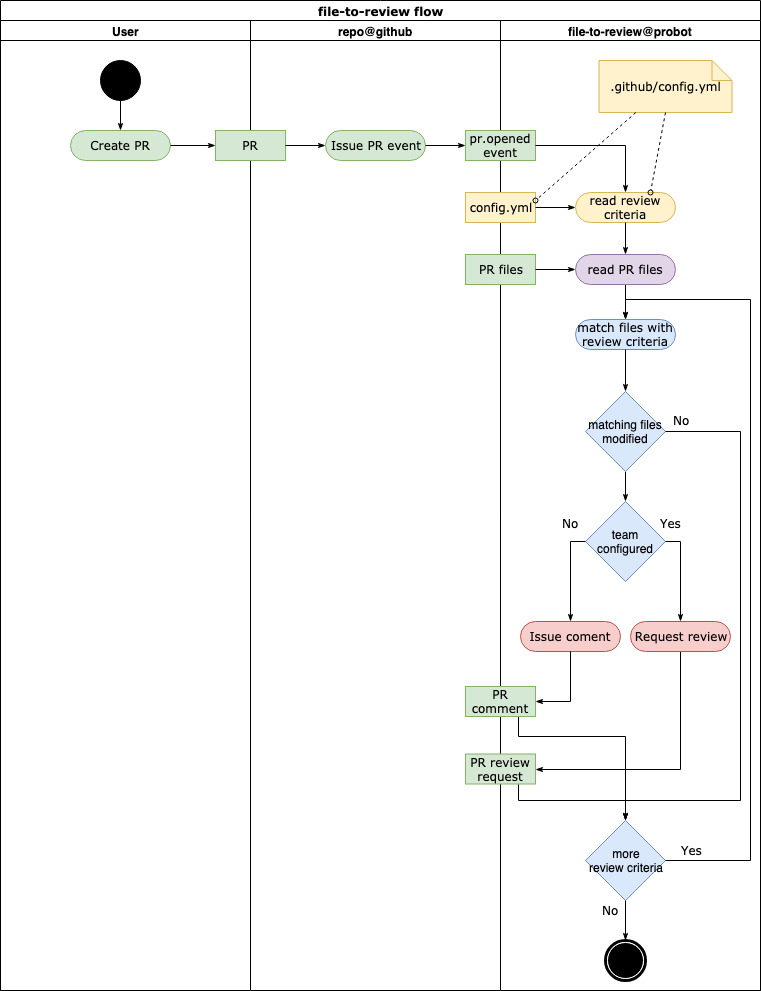
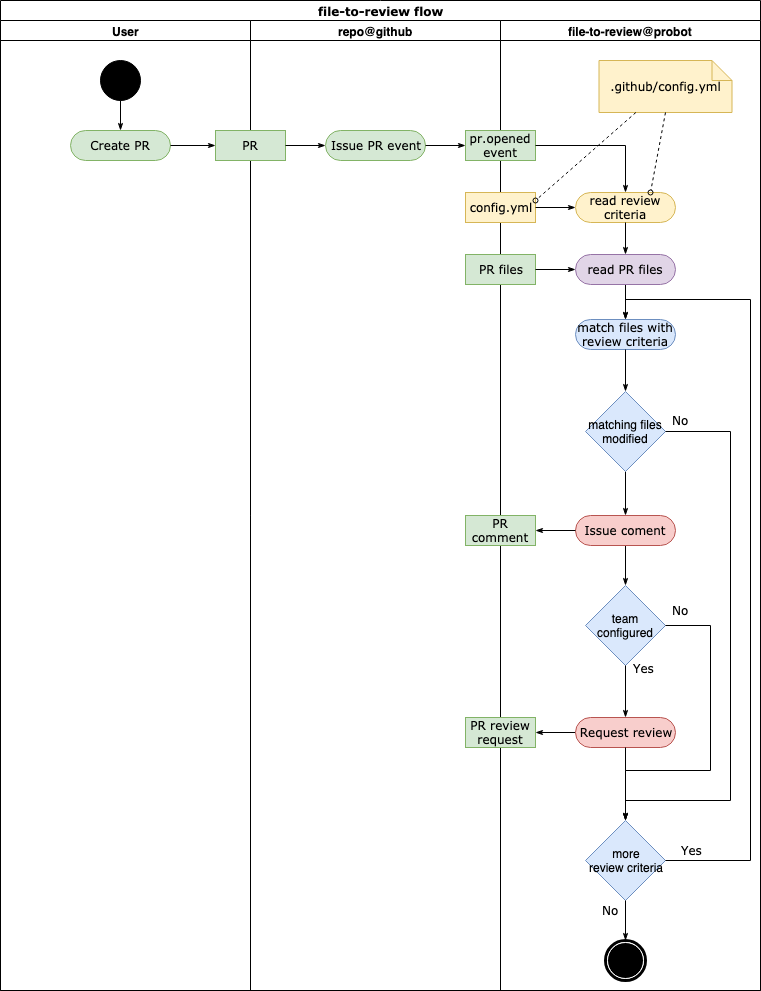
Update README.md and assets to reflect flow change
Indicate that `comment-on-pull-request` is performed always and
`request-review-to-team` only when team(s) is/are configured.

Changed region(s): [[0.6045, 0.4844, 0.9671, 0.8174]]

diff --git a/README.md b/README.md
@@ -1,8 +1,9 @@
 # ![cipy rules](./assets/cipy_rules_small.png) files-to-review app
 
-> A GitHub App built with [Probot](https://github.com/probot/probot) that either comments on pull request
-that certain files require review from predefined team or requests review from that team when certain file(s)
-(e.g. LICENSE, etc.) is submitted with pull request [pr]. See the following diagram for details:
+> A GitHub App built with [Probot](https://github.com/probot/probot) that comments on pull request
+that certain files require review from predefined team and requests review from that team when certain file(s)
+(e.g. LICENSE, etc.) is submitted with pull request [pr]. The latter action is performed only when team(s) is
+configured. See the following diagram for details:
 
 ![legal-to-review flow](./assets/legal-to-review-flow.png?raw=true)
 
@@ -22,7 +23,7 @@ as a result comment (similar to the one below) gets added to the pull request.
 
 ### Configuration description
 
-One can configure several review criteria in `./github/config.yml` accroding to the following structure:
+One can configure several review criterias in `./github/config.yml` according to the following structure:
 ```yaml
 reviewCriteria:
   - configName:
@@ -33,17 +34,13 @@ reviewCriteria:
 
   ...
 ```
-Note that `teams` parameter is optional and when it is provided given `review criteria` results in app working
-in `request-review-to-team` mode that manifests itself in adding team(s) to reviewers list similarly to
-the picture below:
+Note that `teams` parameter is optional and when it is provided given `review criteria` results in app issuing
+2 actions `comment-on-pull-request` and `request-review-to-team` that manifests itself commenting which files
+need to be reviewed and adding team(s) to reviewers list.
 
-![review-request to legal](./assets/review-request.png?raw=true)
+#### Example
 
-### Example
-
-Setting the following configuration in `.github/config.yml` turns on `request-review-to-team` for `legal`
-when corresponding files are modified (e.g. *LICENSE*) and `comment-on-pull-request` for `ui-experts` when UI files
-are modified:
+Setting the following configuration in `.github/config.yml`
 ```yaml
 reviewCriteria:
   - legal:
@@ -55,15 +52,18 @@ reviewCriteria:
     name: 'ui-experts-to-review'
     regexp: '\.css$'
 ```
-and results in actions similar to the following pull request:
+results in the following actions being performed:
+* comment indicating files to be reviewed by `legal-to-review` is added
+* `legal` team is added to the _Reviewers_ list
+* comment indicating files to be reviewed by `ui-experts-to-review` is added
+
+It looks similar to the following pull request:
 
 ![both-modes](./assets/combined.png?raw=true)
 
 ## TODO
 
-Introduce the following features:
-* Issue comment even when `team` is provided so that team members can start review with focusing on area of interest files.
-  Will be especially handy when files are scattered within larger repositories.
+Introduce the following feature(s):
 * Add possibility to `request-review-to-team` based on PR author's team membership. This is especially handy when junior
   developer joins the org and his contributions should be reviewed by someone from mentors team.
 * Consider acting on pull request updates.
